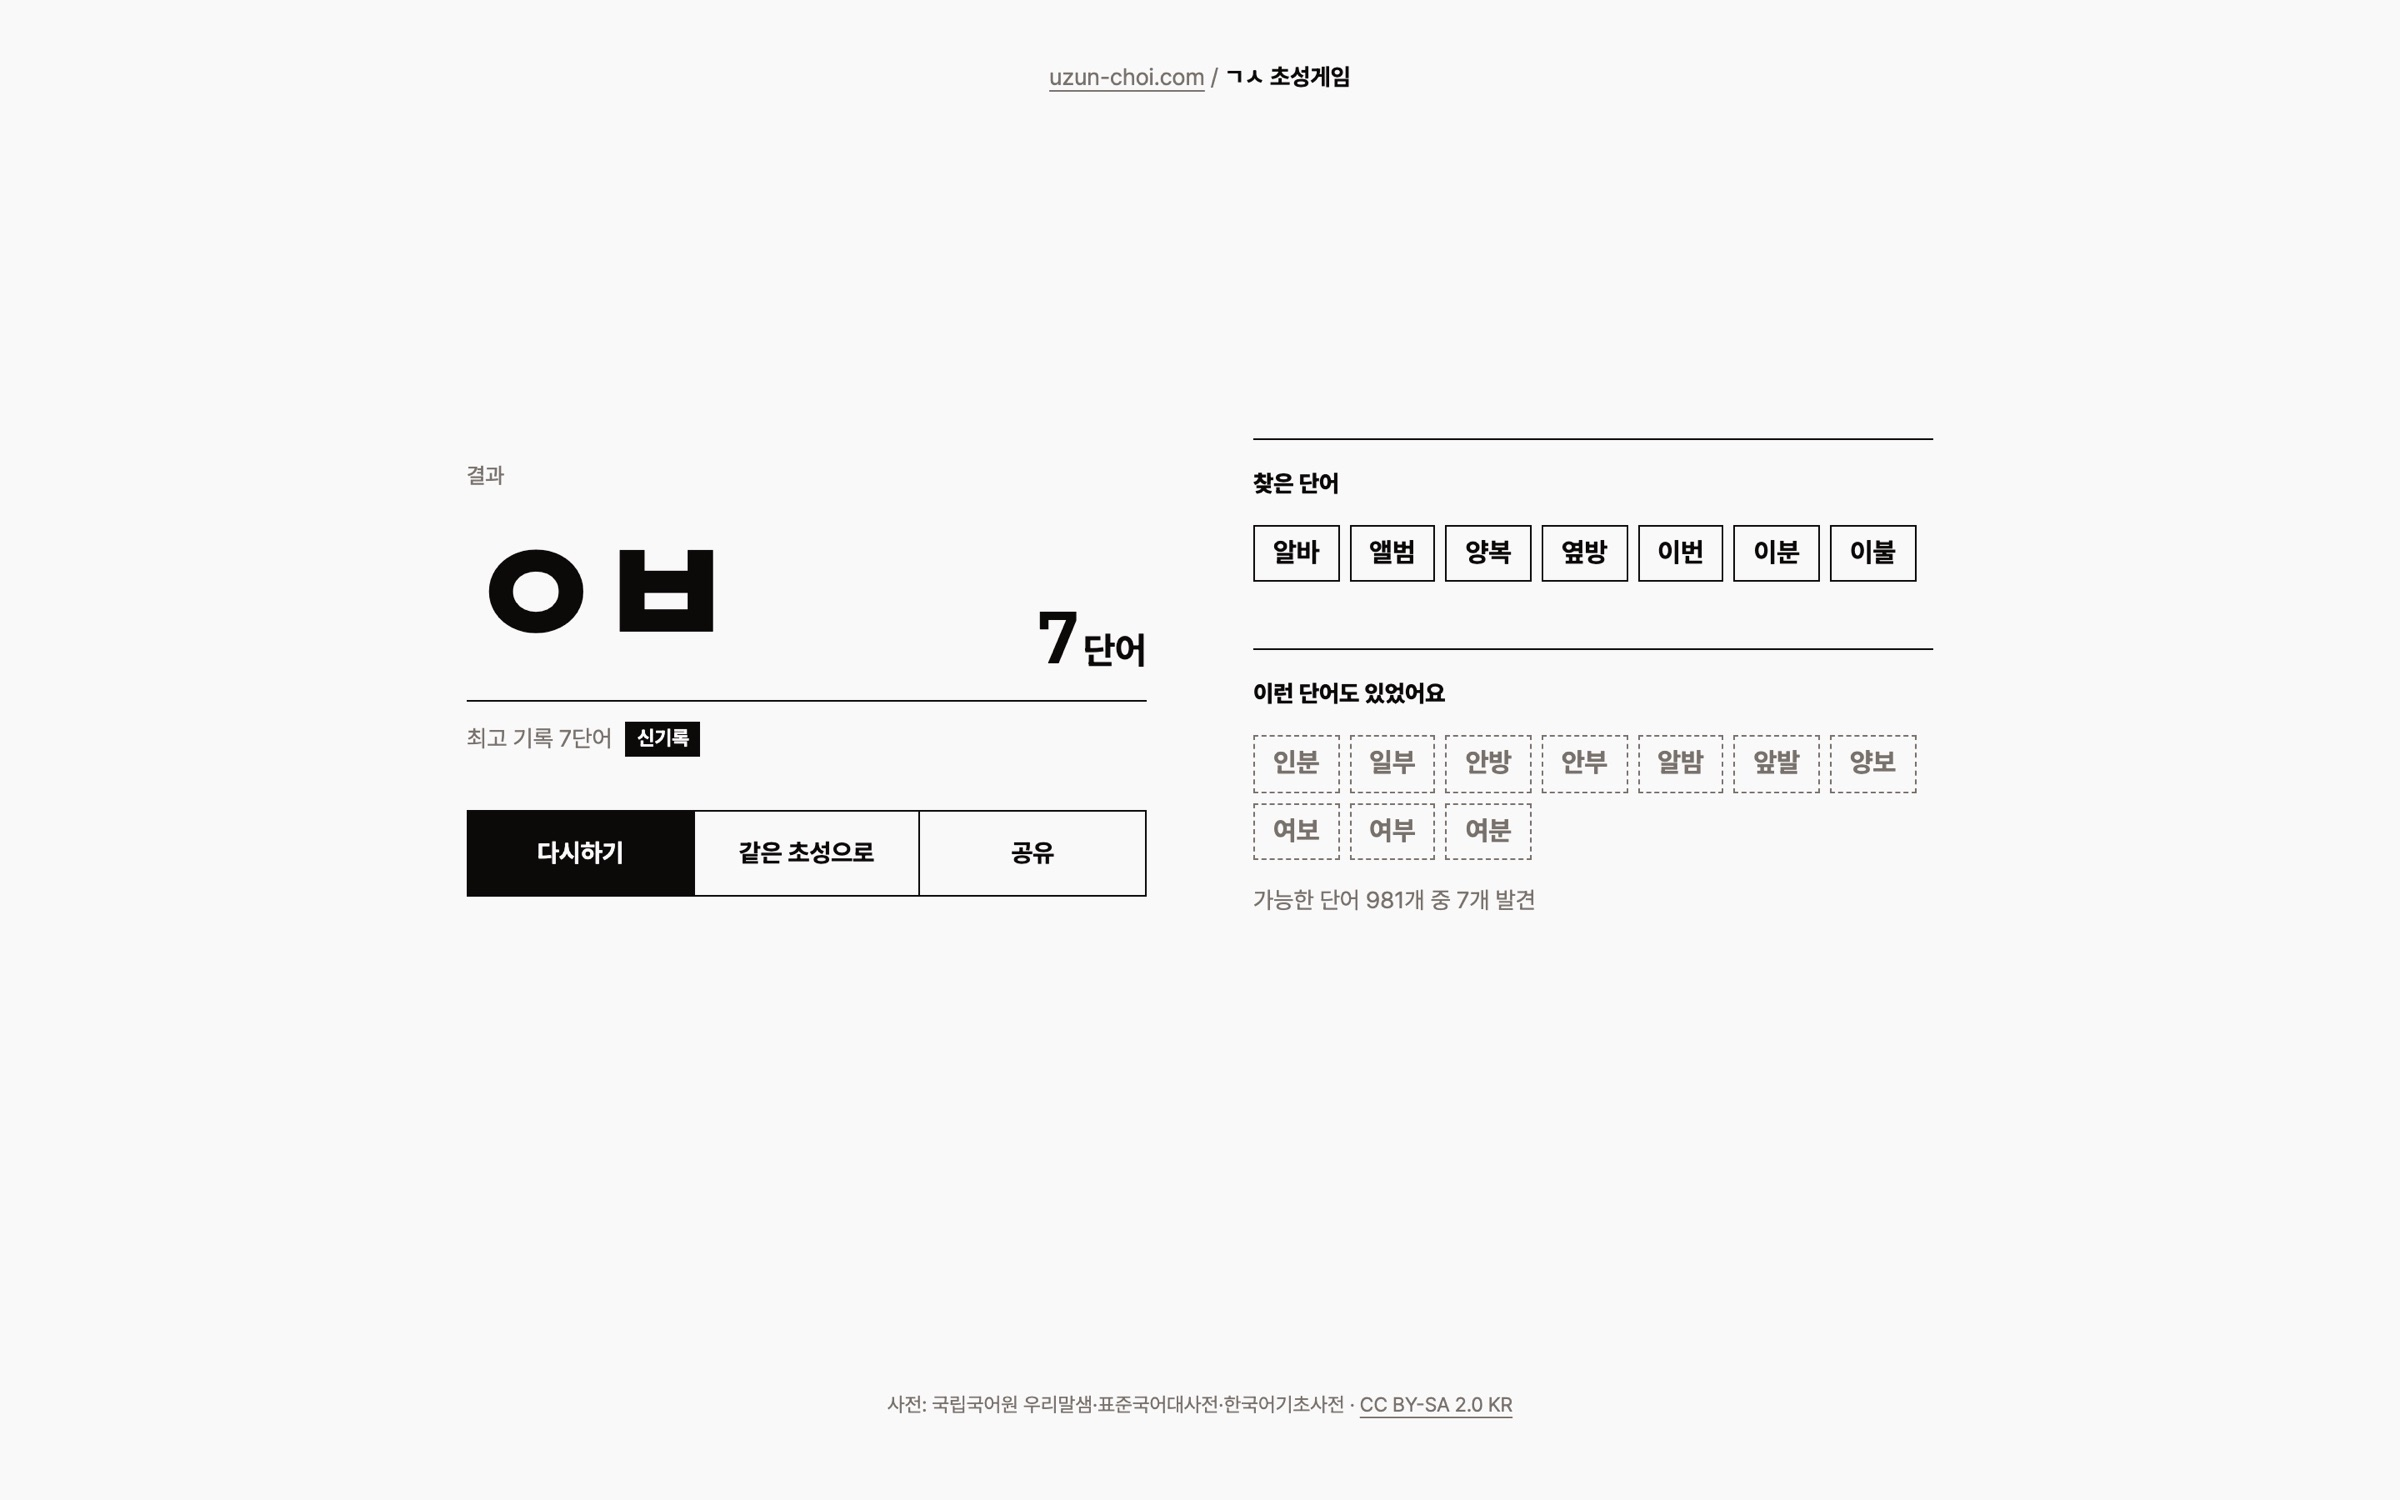
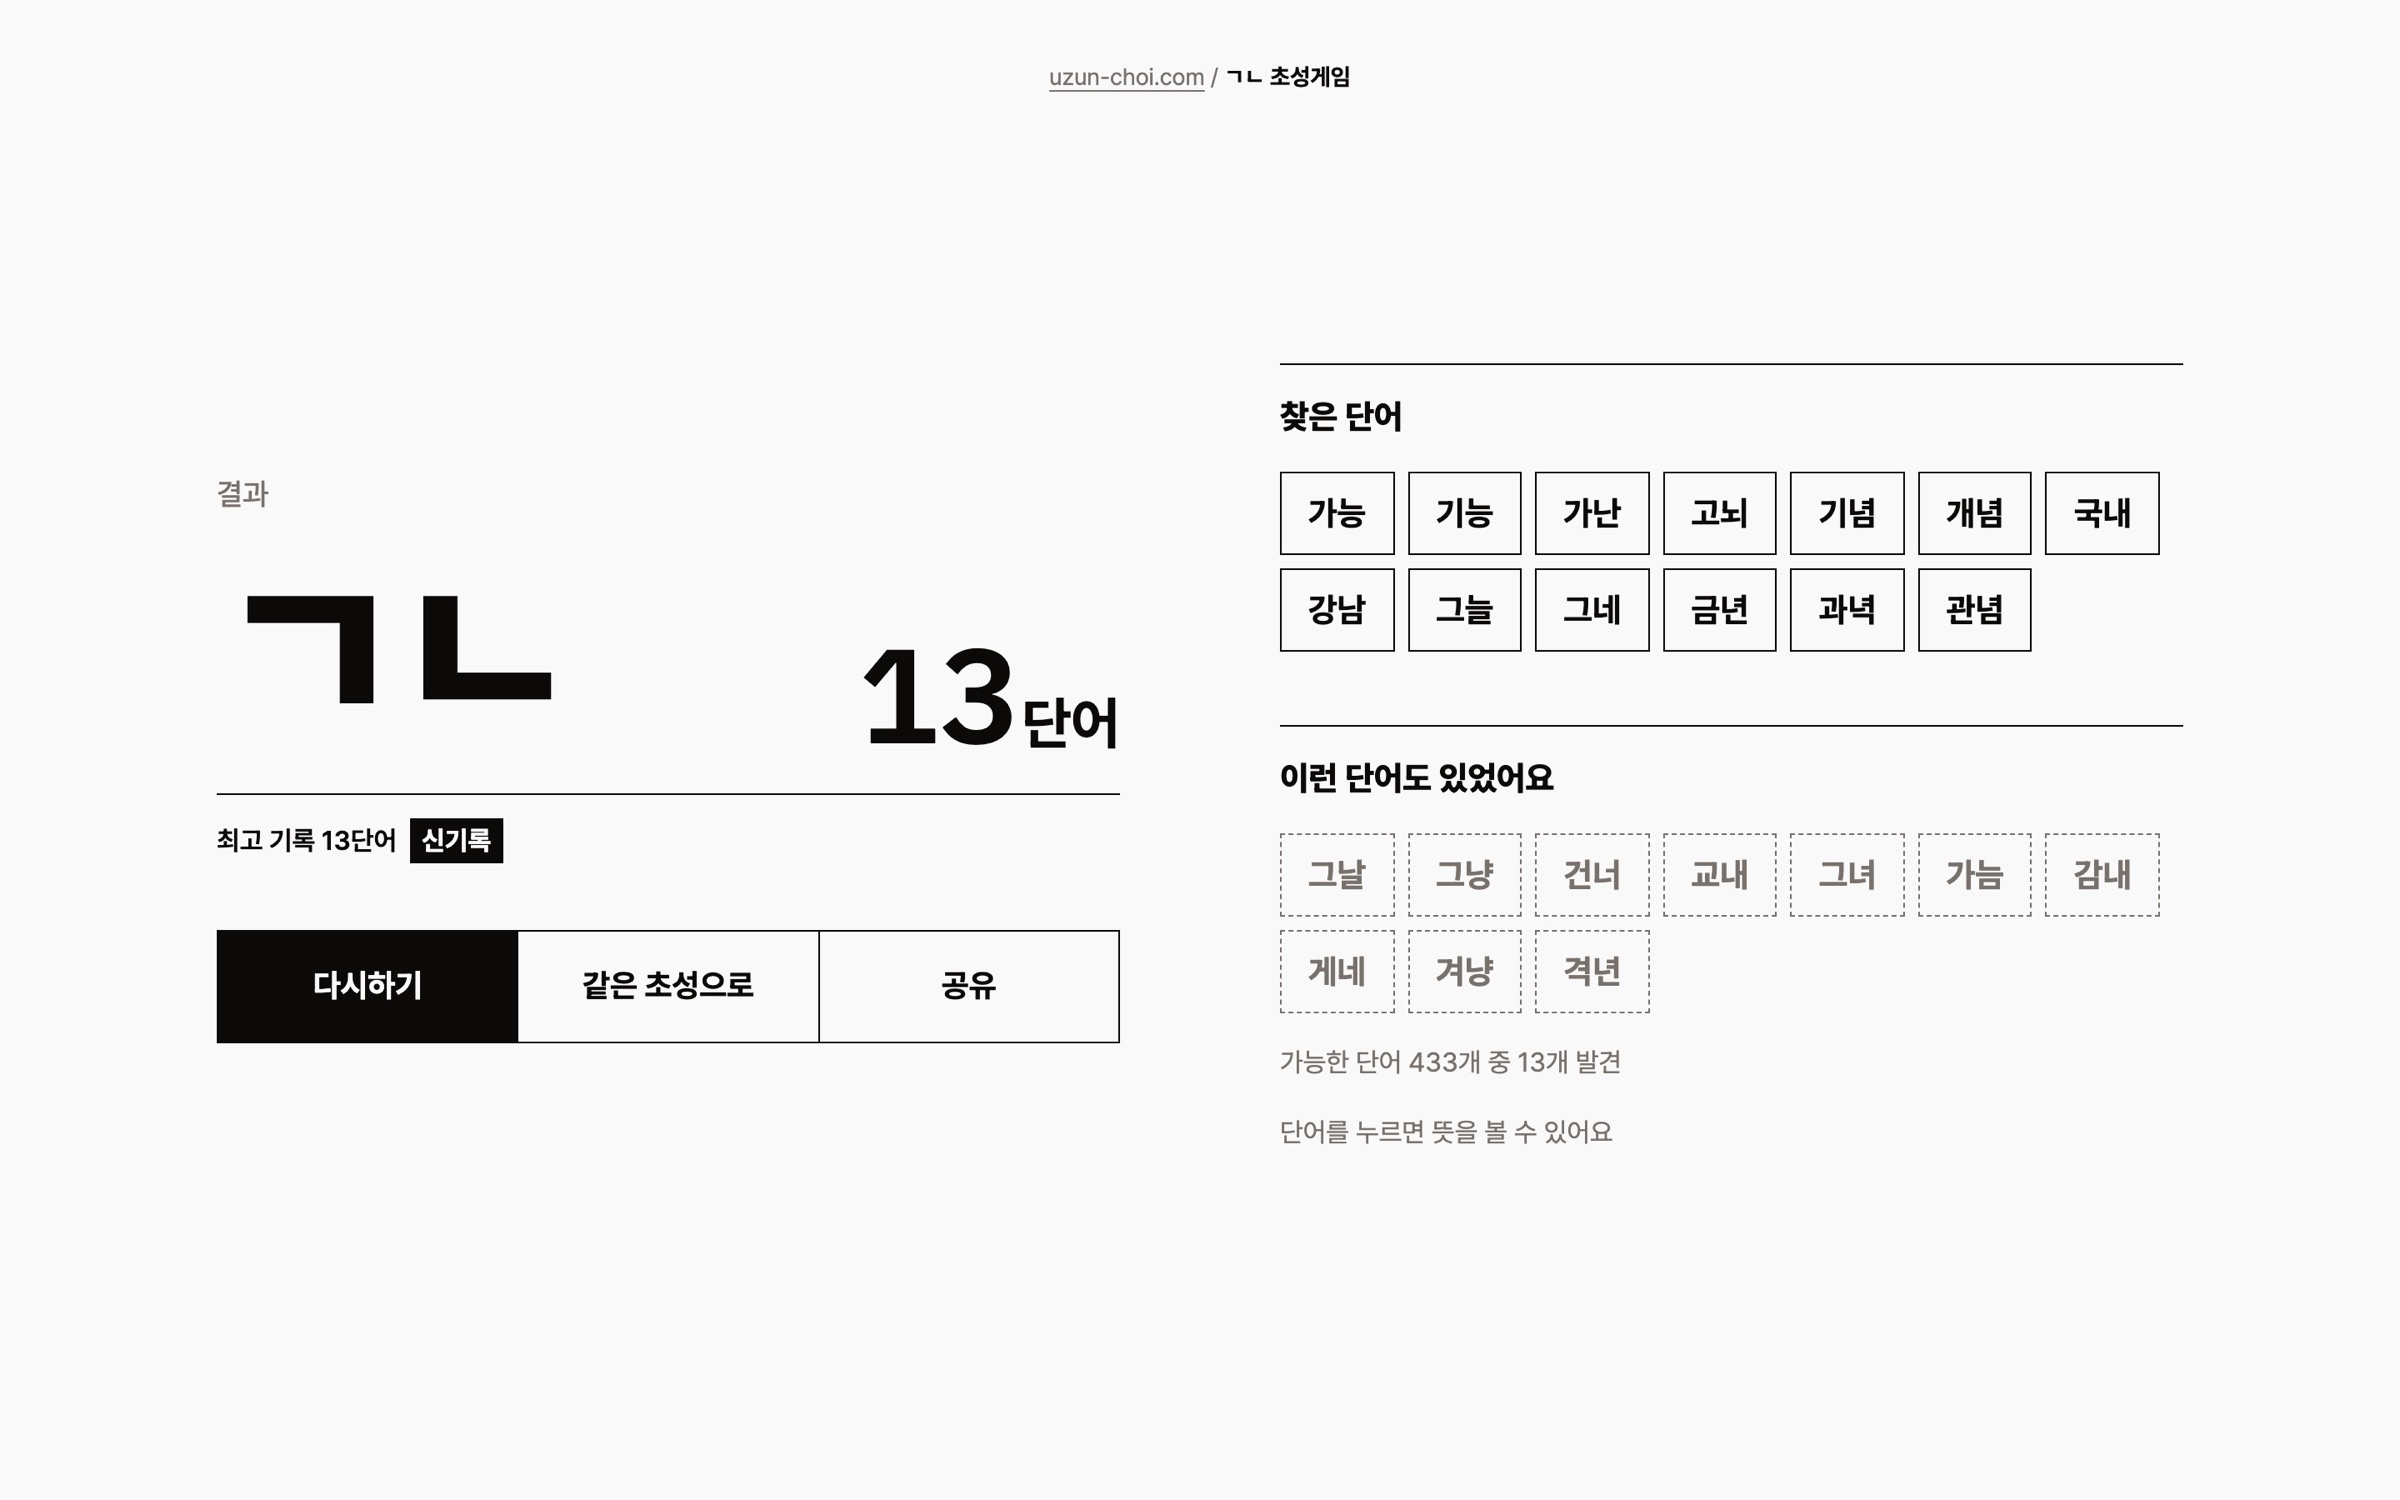
Rename the chosung game from ㄱㅅ to ㄱㄴ
The game was renamed before its iOS launch. Update the title, the example
pair in the description, and retake the cover and gallery shots from the
current build.

Claude-Session: https://claude.ai/code/session_01MeetVH3uyb7iH1jDP85FWw

diff --git a/HANDOFF.md b/HANDOFF.md
@@ -1,5 +1,13 @@
 # uzun-choi 인수인계 로그
 
+## 2026-11-13 23:55 — 초성게임 이름 ㄱㅅ → ㄱㄴ 변경 반영, 커밋·푸시 완료
+
+**지금 상태**: `2026-20-chosung`의 제목(ko "ㄱㄴ", en "Giyeok-Nieun"), 설명 예시, 커버·상세 미디어 6장을 새 이름·새 디자인으로 교체. 미디어는 게임 저장소 빌드(`vite preview`)를 CDP로 ㄱㄴ 초성 고정 플레이해 캡처(데스크톱 1440×900@2x, 모바일 390×844@3x), 커버는 타이틀 화면에서 로고만 남기고 `body{filter:invert(1)}` + `html{background:#161616}`. 예전 커버의 "No.02 — 초성 게임" 문구는 게임에서 빠져서 커버에도 없음. thumb/detail은 두 스크립트로 다시 생성.
+
+**남은 일**: ㄱㄴ iOS 앱(빌드 4, 2026-11-13 심사 재제출)이 출시되면 `meta.json`에 `appStoreUrl` 추가 + 설명의 "준비 중" 문구 수정. 아래 11-10 항목의 남은 일 2번(밝은 히어로 위 흰 제목)은 여전히 미결.
+
+**하면 안 되는 일**: 같은 파일명으로 이미지를 바꿨으니 dev 서버 확인 시 `.next/dev/cache/images` 먼저 지울 것.
+
 ## 2026-11-10 23:45 — 초미니게임천국 게임 3개(ㄱㅅ·천지인·반갈죽) Works 추가, Play/App Store 링크 필드 신설, 커밋·푸시 완료
 
 **지금 상태**: `e896a4b`(코드), `7d54788`(콘텐츠) 푸시 완료, `git status` clean. Works 맨 앞이 ㄱㅅ(`2026-20-chosung`, order 1) → 천지인(`2026-19-cheonjiin`, 2) → 반갈죽(`2026-18-bangaljuk`, 3), 기존 28개 order는 +3. 카테고리 `dev`, credit 없음(전부 본인 작업).

diff --git a/content/works/2026-20-chosung/content.en.md b/content/works/2026-20-chosung/content.en.md
@@ -1,3 +1,3 @@
-A survival typing game. You're given a pair of Korean initial consonants (ㄱㅅ, ㅇㅂ …) and keep typing real words that match before the timer runs out. A correct word adds 3 seconds, a word that isn't in the dictionary costs one, and the clock keeps speeding up. When it's over, the game shows the words you missed — the "oh, that one too!" moment that makes you play again.
+A survival typing game. You're given a pair of Korean initial consonants (ㄱㄴ, ㅇㅂ …) and keep typing real words that match before the timer runs out. A correct word adds 3 seconds, a word that isn't in the dictionary costs one, and the clock keeps speeding up. When it's over, the game shows the words you missed — the "oh, that one too!" moment that makes you play again.
 
 The second title in Tiny Game Heaven. Dictionary data from the National Institute of Korean Language is processed at build time and shipped as static files, and the game handles problems unique to Korean typing, like input arriving mid-composition in the Hangul IME. An iOS app is on the way.

diff --git a/content/works/2026-20-chosung/content.ko.md b/content/works/2026-20-chosung/content.ko.md
@@ -1,3 +1,3 @@
-초성 두 글자(ㄱㅅ, ㅇㅂ …)가 주어지면 그에 맞는 단어를 시간이 다 될 때까지 계속 입력하는 생존 게임. 맞히면 +3초, 사전에 없는 말이면 -1초, 갈수록 시간은 빨리 흐른다. 게임이 끝나면 내가 놓친 단어를 보여줘서 "아, 이것도 있었네!" 하고 다시 하게 만든다.
+초성 두 글자(ㄱㄴ, ㅇㅂ …)가 주어지면 그에 맞는 단어를 시간이 다 될 때까지 계속 입력하는 생존 게임. 맞히면 +3초, 사전에 없는 말이면 -1초, 갈수록 시간은 빨리 흐른다. 게임이 끝나면 내가 놓친 단어를 보여줘서 "아, 이것도 있었네!" 하고 다시 하게 만든다.
 
 「초미니게임천국」의 두 번째 게임. 국립국어원 사전 데이터를 빌드 시점에 가공해 정적 파일로 넣었고, 한글 입력기(IME) 조합 중 입력 처리처럼 한국어 타자 게임에서만 생기는 문제를 직접 다뤘다. iOS 앱 출시도 준비 중이다.
